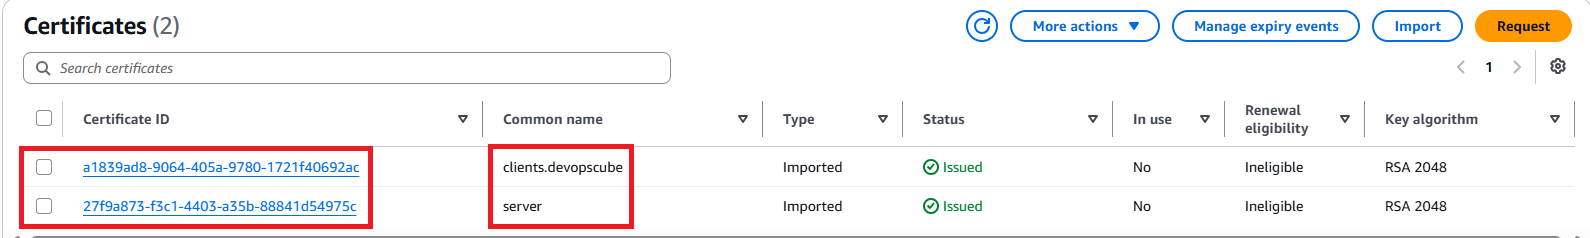
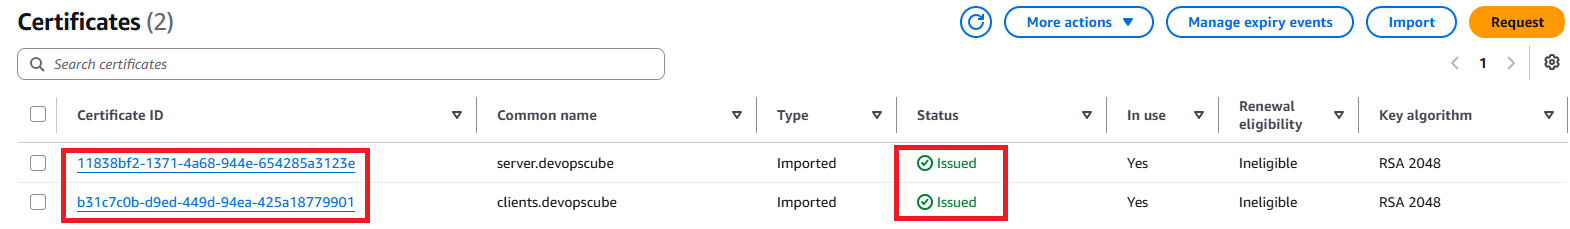
Updated client-vpn-setup

diff --git a/02-aws-client-vpn-setup/README.md b/02-aws-client-vpn-setup/README.md
@@ -95,7 +95,7 @@ cd easy-rsa/easyrsa3
 
 ./easyrsa init-pki
 ./easyrsa build-ca nopass                               # creates the CA
-./easyrsa build-server-full server nopass               # server cert/key
+./easyrsa build-server-full server.devopscube nopass    # server cert/key
 ./easyrsa build-client-full clients.devopscube nopass   # client cert/key
 ```
 
@@ -104,8 +104,8 @@ Collect everything into one folder:
 ```bash
 mkdir ~/certs
 cp pki/ca.crt ~/certs
-cp pki/issued/server.crt ~/certs
-cp pki/private/server.key ~/certs
+cp pki/issued/server.devopscube.crt ~/certs
+cp pki/private/server.devopscube.key ~/certs
 cp pki/issued/clients.devopscube.crt ~/certs
 cp pki/private/clients.devopscube.key ~/certs
 ```
@@ -146,9 +146,7 @@ Fill in:
 - **Client IPv4 CIDR** - a range that does **not** overlap your VPC CIDR (e.g. VPC = `10.0.0.0/16`, client CIDR = `172.16.0.0/22`). AWS hands these IPs to connecting devices.
 ![Architecture Diagram](../img/client-vpn-ip.png)
 - **Authentication** — choose **mutual authentication**, select the server cert and client cert from ACM
-  > [!NOTE]
-  > If you are generating server and client certificates from a same Certificate Authority (CA), you can use the server certificate ARN for both server and client when you create a Client VPN Endpoint.
-  ![Architecture Diagram](../img/client-vpn-authentication.png)
+![Architecture Diagram](../img/client-vpn-authentication.png)
 
 - **Transport protocol** - UDP (recommended; lower latency)
 - **Split-tunnel** - enable it, if you dont want to route *all* client traffic (including normal internet browsing) through the VPN. Otherwise you will not be able to access internet while connected to the VPN
@@ -170,18 +168,18 @@ Select the endpoint → **Target network associations** → add a private subnet
 ### Step 5 - Add an authorization rule
 Creating authorization rules will help to control the client's access to the network. We can specify which subnets and their resources that clients can access.
 
-Select the endpoint → **Authorization rules** → **Add authorization rule**
+- Select the endpoint → **Authorization rules** → **Add authorization rule**
 
-Specify which subnet(s) clients are allowed to reach, e.g. `10.0.4.0/24`. Without a rule for a subnet, clients can't reach it even if it's routable.
+- Specify which subnet(s) clients are allowed to reach, e.g. `10.0.4.0/24`. Without a rule for a subnet, clients can't reach it even if it's routable.
 
 ### Step 6 - Configure the client `.ovpn` file
 
-Download the client configuration file from the endpoint's **Download client configuration** option.
+- Download the client configuration file from the endpoint's **Download client configuration** option.
 ![Architecture Diagram](../img/ovpn-client-download.png)
-Open it in a text editor and paste in your client cert/key contents (from `~/certs`) inside the `<cert>` and `<key>` blocks. This is required becuase we opted for mutual SSL based VPN connectivity.
+- Open it in a text editor and paste in your client cert/key contents (from `~/certs`) inside the `<cert>` and `<key>` blocks. This is required becuase we opted for mutual SSL based VPN connectivity.
 ![Architecture Diagram](../img/configuration-file-modifications.png)
 
-### Step 7 — Install OpenVPN and connect
+### Step 7 - Install OpenVPN and connect
 
 - Download the [OpenVPN client](https://openvpn.net/community-downloads/) for your OS
 - Import the edited `.ovpn` file
@@ -190,8 +188,12 @@ Open it in a text editor and paste in your client cert/key contents (from `~/cer
 ### Step 8 - Test
 
 - Launch a test EC2 instance **without a public IP** inside the authorized subnet (`10.0.4.0/24` in this example)
+![Architecture Diagram](../img/aws-ec2-private-ip.png)
 - Allow SSH/HTTP/ICMP in its security group (scoped to the VPN's security group or your client CIDR, not "anywhere," for anything beyond a quick test)
+![Architecture Diagram](../img/sg-inbound-rules.png)
+![Architecture Diagram](../img/client-vpn-sg.png)
 - From your workstation (while connected to the VPN), `ping` / `ssh` / `curl` the instance's **private IP**
+![Architecture Diagram](../img/test-ping.png)
 
 If that works, you have private, encrypted access to your VPC without a bastion or public-facing resources.
 
